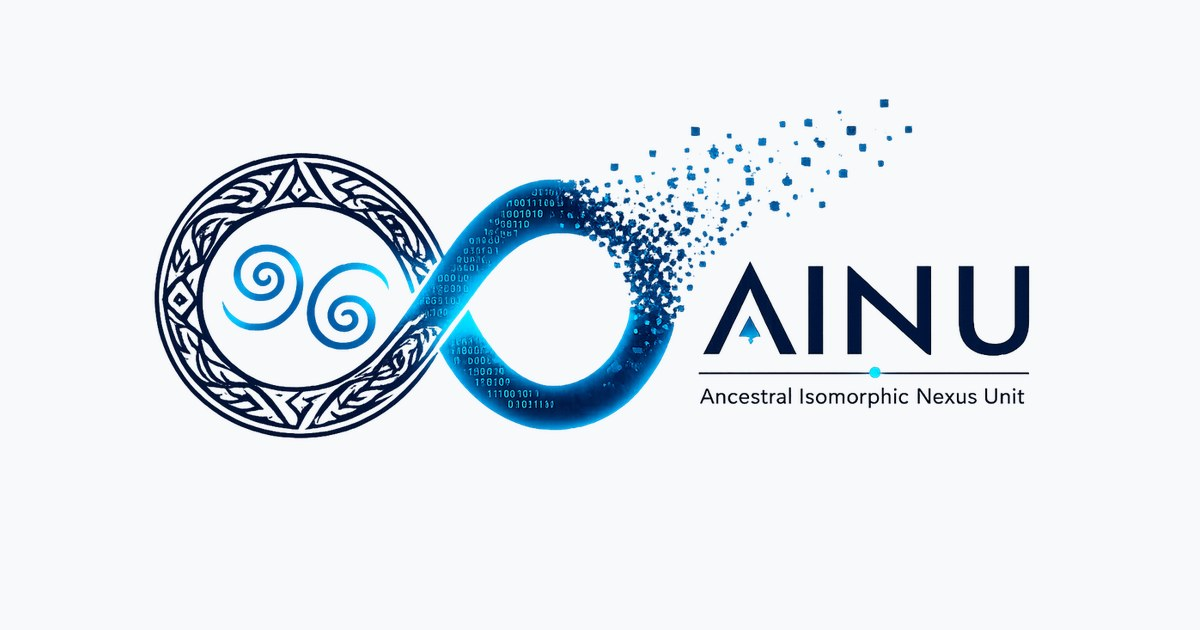
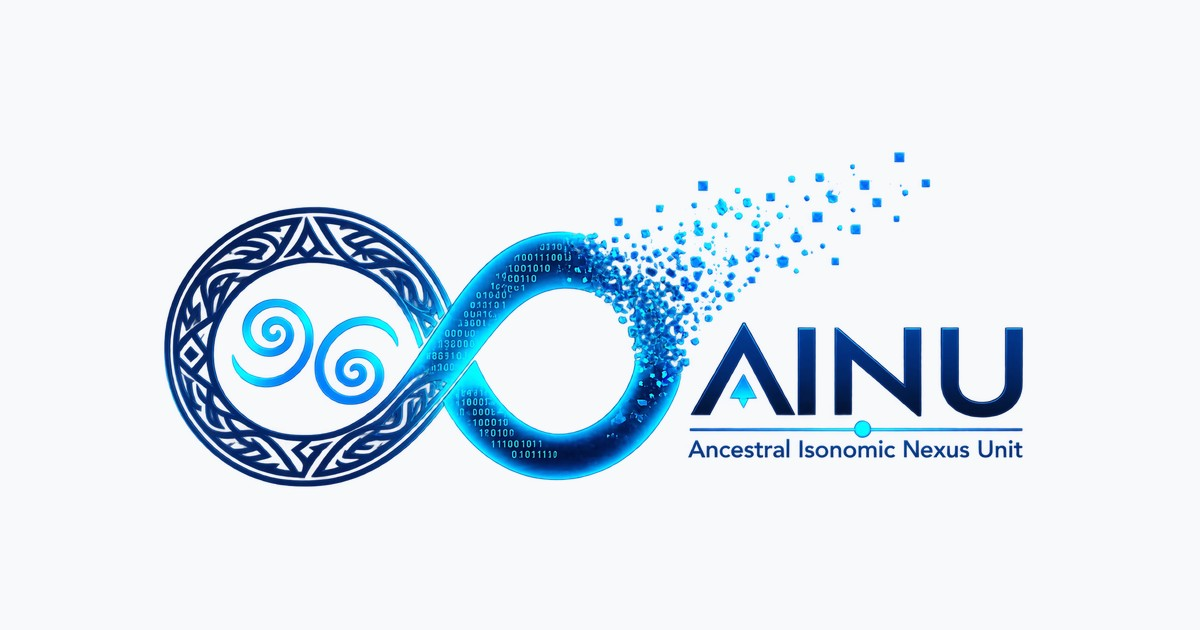
ainu.systems: nome correto (Ancestral Isonomic Nexus Unit), nova logomarca e corrige 'intergerational'
Título, og:title, twitter:title, dado estruturado, alt do logo e rodapé diziam
'Isomorphic'; as imagens (logo da página, ícone e og-image) também.

diff --git a/landing/ainu-systems/index.html b/landing/ainu-systems/index.html
@@ -5,9 +5,9 @@
   <meta name="viewport" content="width=device-width, initial-scale=1.0">
 
   <!-- SEO -->
-  <title>AINU — Ancestral Isomorphic Nexus Unit | Narayama Research Platform</title>
+  <title>AINU — Ancestral Isonomic Nexus Unit | Narayama Research Platform</title>
   <meta name="description" content="AINU é uma infraestrutura computacional aberta para pesquisa sobre sustentabilidade intergeracional. Calcula o Índice N* para 28 países, com atualização trimestral e metodologia rastreável.">
-  <meta name="keywords" content="AINU, Narayama, índice demográfico, sustentabilidade intergeracional, declínio populacional, N* index, pesquisa aberta, open research, demographic index, intergerational sustainability">
+  <meta name="keywords" content="AINU, Narayama, índice demográfico, sustentabilidade intergeracional, declínio populacional, N* index, pesquisa aberta, open research, demographic index, intergenerational sustainability">
   <meta name="author" content="Itiberê Muarrek">
   <meta name="robots" content="index, follow">
 
@@ -17,13 +17,13 @@
   <!-- Open Graph -->
   <meta property="og:type" content="website">
   <meta property="og:url" content="https://ainu.systems">
-  <meta property="og:title" content="AINU — Ancestral Isomorphic Nexus Unit">
+  <meta property="og:title" content="AINU — Ancestral Isonomic Nexus Unit">
   <meta property="og:description" content="Open research infrastructure for intergenerational sustainability. N* Index across 28 countries. Quarterly updates. Traceable methodology.">
   <meta property="og:image" content="https://ainu.systems/og-image.jpg">
 
   <!-- Twitter Card -->
   <meta name="twitter:card" content="summary_large_image">
-  <meta name="twitter:title" content="AINU — Ancestral Isomorphic Nexus Unit">
+  <meta name="twitter:title" content="AINU — Ancestral Isonomic Nexus Unit">
   <meta name="twitter:description" content="Open research infrastructure for intergenerational sustainability. N* Index across 28 countries. Quarterly updates. Traceable methodology.">
   <meta name="twitter:image" content="https://ainu.systems/og-image.jpg">
 
@@ -35,7 +35,7 @@
   {
     "@context": "https://schema.org",
     "@type": "ResearchProject",
-    "name": "AINU — Ancestral Isomorphic Nexus Unit",
+    "name": "AINU — Ancestral Isonomic Nexus Unit",
     "description": "Open computational infrastructure for intergenerational sustainability research. Narayama Framework.",
     "url": "https://ainu.systems",
     "author": {
@@ -753,7 +753,7 @@
 <!-- ─── HERO ──────────────────────────────────────────────────── -->
 <section class="hero">
   <div class="hero-body">
-    <img src="Ainu-transparente.png" alt="AINU — Ancestral Isomorphic Nexus Unit" class="hero-logo">
+    <img src="Ainu-transparente.png" alt="AINU — Ancestral Isonomic Nexus Unit" class="hero-logo">
     <p class="hero-eyebrow" data-i18n="hero_eyebrow">Infraestrutura de Pesquisa Aberta · Narayama Framework</p>
     <h1 class="hero-title" data-i18n="hero_title">
       Em que faixa reprodutiva uma sociedade consegue se manter <em>sustentável</em>?
@@ -1008,7 +1008,7 @@
 <footer>
   <div class="footer-left">
     <div class="footer-framework"><img src="framework-icon.png" alt="">AINU–Narayama Intergenerational Sustainability Framework</div>
-    AINU · Ancestral Isomorphic Nexus Unit · © 2026 Itiberê Muarrek
+    AINU · Ancestral Isonomic Nexus Unit · © 2026 Itiberê Muarrek
   </div>
   <div class="footer-right">
     <a class="footer-link lang-link" data-base="https://narayama.live" href="https://narayama.live" target="_blank" rel="noopener">Narayama.live</a>
